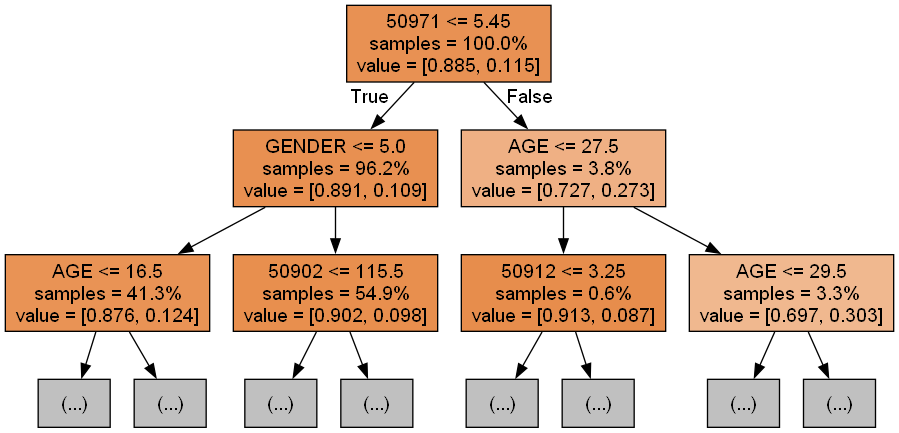
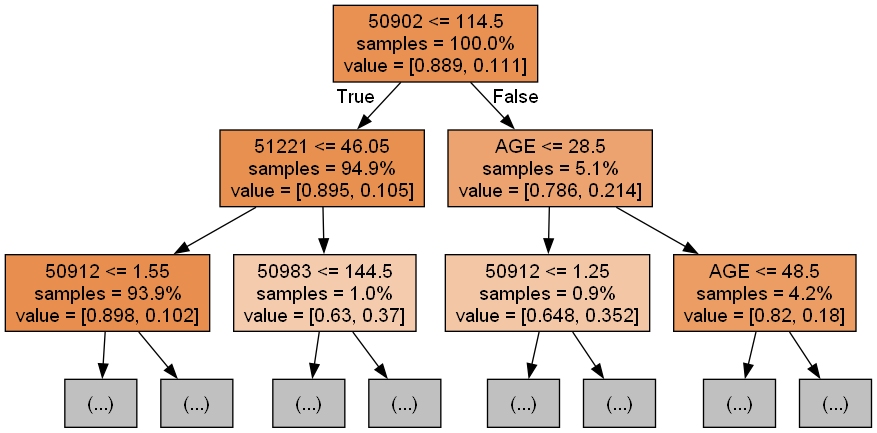
Random Forest UI updated

diff --git a/Early Warning System/EWS.py b/Early Warning System/EWS.py
@@ -1,17 +1,28 @@
 import graphics
+import os
+import pandas as pd
 from button import *
 from typing import Dict
-from ..Models.RandomForest import random_forest_result
+import matplotlib.pyplot as plt
+import matplotlib.image as mpimg
+from Models.RandomForest import random_forest_result
+import math
+import graphviz
+from sklearn.metrics import confusion_matrix
+from sklearn.metrics import ConfusionMatrixDisplay
+from sklearn.tree import export_graphviz
 
 
 class Patient:
-    def __init__(self, age, gender, diagnosis, risk, icu, test_results={} ):
+    def __init__(self, age, gender, diagnosis, risk, icu, ethnicity, test_results={}):
         self.age = age
         self.gender = gender
         self.diagnosis = diagnosis
         self.risk = risk
         self.icu = icu
+        self.ethnicity = ethnicity
         self.test_results = test_results
+        
 
     def switchGender(self):
         if(self.gender == "M"):
@@ -29,6 +40,25 @@ class Patient:
         return self.test_results
     def getRisk(self):
         return self.risk
+    
+    def gender_to_numeric(self):
+        if self.gender =="M":
+            return 10
+        else:
+            return 0
+        
+    def ethnicity_to_numeric(self):
+        if 'WHITE' in self.ethnicity:
+            return 10
+        elif 'AFRICAN AMERICAN' in self.ethnicity or 'BLACK' in self.ethnicity:
+            return 30
+        elif 'ASIAN' in self.ethnicity:
+            return 40
+        elif 'HISPANIC' in self.ethnicity or 'LATINO' in self.ethnicity:
+            return 20
+        else:
+            return 0
+        
 
 
 class UI:
@@ -121,16 +151,14 @@ class UI:
         ethnicityEntry .draw(win)
 
         directoryEntry = Entry(Point(700, 375), 20)
-        directoryEntry .setText("\example.csv")
+        directoryEntry .setText('./example1.csv')
         directoryEntry .draw(win)
 
         icuEntry = Entry(Point(990, 375), 5)
         icuEntry.setText("3")
         icuEntry.draw(win)
 
-        tests = {"pO2" : 12, "Potassium" : 10, "pH" : 11, "Lactate" : 10}
-        p = Patient(age = ageEntry.getText(), gender = "M", diagnosis= diagnosisEntry.getText(), risk = 56, icu = icuEntry.getText() ,test_results= tests)
-
+        p = Patient(age = ageEntry.getText(), gender = "M", diagnosis= diagnosisEntry.getText(), risk = 56, icu = icuEntry.getText(), ethnicity= ethnicityEntry.getText().upper(),test_results= [])
         pt = win.getMouse()
         while not exitButton.isClicked(pt):
             if ( 195 <= pt.getX() and pt.getX() <= 250 and 270 <= pt.getY() and pt.getY() <= 370):
@@ -163,6 +191,14 @@ class UI:
                     p.switchGender()
 
 
+            if rnnButton.isClicked(pt) or lstmButton.isClicked(pt) or rfButton.isClicked(pt) or lrButton.isClicked(pt):
+                df = pd.read_csv(directoryEntry.getText(),header = None, skiprows = 1, nrows=1)
+                tests = {"Chloride" : df[0].iloc[0], "Creatinine" : df[1].iloc[0], "Potassium" : df[2].iloc[0], "Sodium" : df[3].iloc[0],  "Hematocrit" : df[4].iloc[0]}
+                test_results = list(tests.values())
+                p = Patient(age = ageEntry.getText(), gender = "M", diagnosis= diagnosisEntry.getText(), risk = 56, icu = icuEntry.getText(), ethnicity= ethnicityEntry.getText().upper(),test_results= tests)
+                features = [[p.getAge(), p.gender_to_numeric(), p.ethnicity_to_numeric()]+ test_results]
+                
+
             if rnnButton.isClicked(pt):
                 win.close()
                 self.rnnPage(p)
@@ -173,7 +209,7 @@ class UI:
 
             elif rfButton.isClicked(pt):
                 win.close()
-                self.rfPage(p)
+                self.rfPage(p,features)
             
             elif lrButton.isClicked(pt):
                 win.close()
@@ -236,7 +272,7 @@ class UI:
             text.setSize(15)
             text.draw(win)
 
-        text = Text(Point(900,230), "Abnormal!")
+        text = Text(Point(900,230), "Patient Test Results")
         text.setFill("Cyan")
         text.setSize(20)
         text.draw(win)
@@ -305,7 +341,7 @@ class UI:
         goBackButton = Button(win, Point(100, 750), 100, 50, "Go Back")
         exitButton = Button(win, Point(1325, 750), 100, 50, "Exit")
 
-        title = Text(Point(700,100),"Random Forest Model")
+        title = Text(Point(700,100),"LSTM Model")
         title.setFill("Cyan")
         title.setSize(36)
         title.setStyle("italic")
@@ -341,7 +377,7 @@ class UI:
         
 
     # Random Forest Page
-    def rfPage(self,p):
+    def rfPage(self,p, features):
 
         win = GraphWin("Random Forest Results", 1400, 800)
         win.setBackground("black")
@@ -358,18 +394,69 @@ class UI:
         title.setStyle("italic")
         title.draw(win)
 
-        text = Text(Point(300,530), "Accuracy: ")
-        text.setFill("Cyan")
-        text.setSize(20)
-        text.draw(win)
+        text1 = Text(Point(600,250), "Model Statistics ")
+        text1.setFill("Cyan")
+        text1.setSize(24)
+        text1.draw(win)
+        text1 = Text(Point(900,250), "Predicted class: ")
+        text1.setFill("Cyan")
+        text1.setSize(24)
+        text1.draw(win)
+        loading_text = Text(Point(750,350), "Calculating...")
+        loading_text.setFill("Cyan")
+        loading_text.setSize(24)
+        loading_text.draw(win)
 
+        loading_text1 = Text(Point(750,400), "◌")
+        loading_text1.setFill("Cyan")
+        loading_text1.setSize(36)
+        loading_text1.draw(win)
 
-        results = random_forest_result()
-
+        rf, X_train, y_test, y_pred, results = random_forest_result()
+        loading_text.undraw()
+        loading_text1.undraw()
         # Display Mode Stats
-        y = 300
-        for i in range(4):
-            text = Text(Point(600,y), "Model Stat " + results[i])
+
+        prediction = rf.predict(features)
+        text1.undraw()
+
+        if prediction[0] == 0:
+            text1 = Text(Point(900,250), "Predicted class: "+ "0")
+            text1.setFill("Cyan")
+            text1.setSize(24)
+            text1.draw(win)
+
+            text1 = Text(Point(900,350), "The patient has no-risk of")
+            text1.setFill("Cyan")
+            text1.setSize(15)
+            text1.draw(win)
+
+            text1 = Text(Point(900,375), "mortality based on our model")
+            text1.setFill("Cyan")
+            text1.setSize(15)
+            text1.draw(win)
+            
+        else:
+            text1 = Text(Point(900,250), "Predicted class: "+ "1")
+            text1.setFill("Cyan")
+            text1.setSize(24)
+            text1.draw(win)
+
+            text1 = Text(Point(900,350), "The patient has high-risk of")
+            text1.setFill("Cyan")
+            text1.setSize(15)
+            text1.draw(win)
+
+            text1 = Text(Point(900,375), "mortality based on our model")
+            text1.setFill("Cyan")
+            text1.setSize(15)
+            text1.draw(win)
+            
+
+
+        y = 325
+        for key, value in results.items():
+            text = Text(Point(600,y), key+" : " + str(math.ceil(value * 1000)/1000) + "%")
             text.setFill("Cyan")
             text.setSize(15)
             text.draw(win)
@@ -378,7 +465,7 @@ class UI:
         pt = win.getMouse()
         while not exitButton.isClicked(pt):
             if viewButton.isClicked(pt):
-                self.modelPage("RNN")
+                self.modelPage("Random Forest", rf, X_train, y_test, y_pred)
             elif goBackButton.isClicked(pt):
                 win.close()
                 self.Start()
@@ -400,7 +487,7 @@ class UI:
         goBackButton = Button(win, Point(100, 750), 100, 50, "Go Back")
         exitButton = Button(win, Point(1325, 750), 100, 50, "Exit")
         
-        title = Text(Point(700,100),"Random Forest Model")
+        title = Text(Point(700,100),"Logistic Regression model")
         title.setFill("Cyan")
         title.setSize(36)
         title.setStyle("italic")
@@ -432,22 +519,40 @@ class UI:
 
 
     # When View model button is clicked return different results
-    def modelPage(self, model):
-        if(model == "RNN"):
+    def modelPage(self, model_type, model, X_train, y_test, y_pred ):
+        if(model_type == "RNN"):
             win = GraphWin("RNN output", 800, 800)
             win.setBackground("white")
             
 
-        elif(model == "Random Forest"):
-            win = GraphWin("Random Forest output", 800, 800)
-            win.setBackground("white")
+        elif(model_type == "Random Forest"):
+            for i, tree in enumerate(model.estimators_[:3]):
+                dot_data = export_graphviz(tree,
+                                        out_file=None,
+                                        feature_names=X_train.columns,
+                                        filled=True,
+                                        max_depth=2,
+                                        impurity=False,
+                                        proportion=True)
+                graph = graphviz.Source(dot_data)
+                graph.render(f'rf_tree_{i}', format='png', cleanup=True)
+            
+
+            cm = confusion_matrix(y_test, y_pred)
+            ConfusionMatrixDisplay(confusion_matrix=cm).plot()
+            for i in range(3):
+                img = mpimg.imread(f'rf_tree_{i}.png')
+                plt.figure(figsize=(10,10))
+                plt.imshow(img)
+                plt.axis('off')  # Do not show axes to keep it tidy
+                plt.show()
 
 
-        elif(model == "LSTM"):
+        elif(model_type == "LSTM"):
             win = GraphWin("LSTM output", 800, 800)
             win.setBackground("white")
 
-        elif(model == "LR"):
+        elif(model_type == "LR"):
             win = GraphWin("Linear Regression output", 800, 800)
             win.setBackground("white")
 

diff --git a/Early Warning System/Models/RandomForest.py b/Early Warning System/Models/RandomForest.py
@@ -1,0 +1,55 @@
+import pandas as pd
+from sklearn.ensemble import RandomForestClassifier
+from sklearn.metrics import accuracy_score, precision_score, recall_score
+from sklearn.model_selection import train_test_split
+from scipy.optimize import minimize
+import numpy as np
+
+def random_forest_result():
+    data = pd.read_csv('./data.csv')
+    data = data.sample(frac=0.9)
+
+
+    X = data.drop(['SUBJECT_ID','TARGET'], axis=1)
+    y = data['TARGET']
+
+
+    X_train, X_test, y_train, y_test = train_test_split(X, y, test_size=0.2)
+    rf = RandomForestClassifier()
+    rf.fit(X_train, y_train)
+
+    y_pred = rf.predict(X_test)
+
+    accuracy = accuracy_score(y_test, y_pred)
+    precision = precision_score(y_test, y_pred)
+    recall = recall_score(y_test, y_pred)
+
+    # print("Accuracy:", accuracy)
+    # print("Precision:", precision)
+    # print("Recall:", recall)
+
+    # def objective_wrapper(feature_values):
+    #     return objective_function(feature_values, rf)
+    
+    # # Your existing code for initial guess and bounds...
+    # initial_guess = np.mean(X_train, axis=0)
+    # bounds = [(X_train[col].min(), X_train[col].max()) for col in X_train.columns]
+    
+    # # Use the wrapper function in minimize
+    # result = minimize(objective_wrapper, initial_guess, bounds=bounds, method='L-BFGS-B')
+    # optimal_feature_values = result.x
+    
+    #print("Optimal feature values for class 1 prediction:", optimal_feature_values)
+    
+
+    return rf, X_train, y_test, y_pred, {"Accuracy" : accuracy, "Precision": precision, "Recall" : recall}
+
+def objective_function(feature_values,model):
+    # Reshape feature_values to match the input shape expected by the model
+    feature_values_reshaped = feature_values.reshape(1, -1)
+    # Predict_proba returns a list of [prob_class_0, prob_class_1]
+    predicted_prob = model.predict_proba(feature_values_reshaped)[0][1]
+    # Since we want to maximize prob_class_1, minimize its negative
+    return -predicted_prob
+
+
